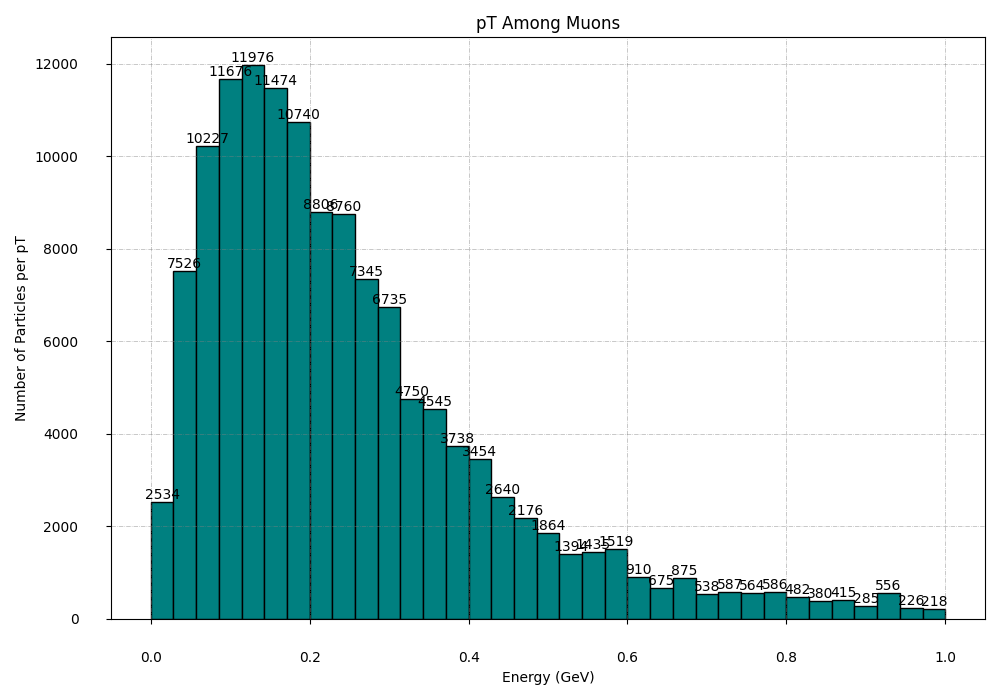
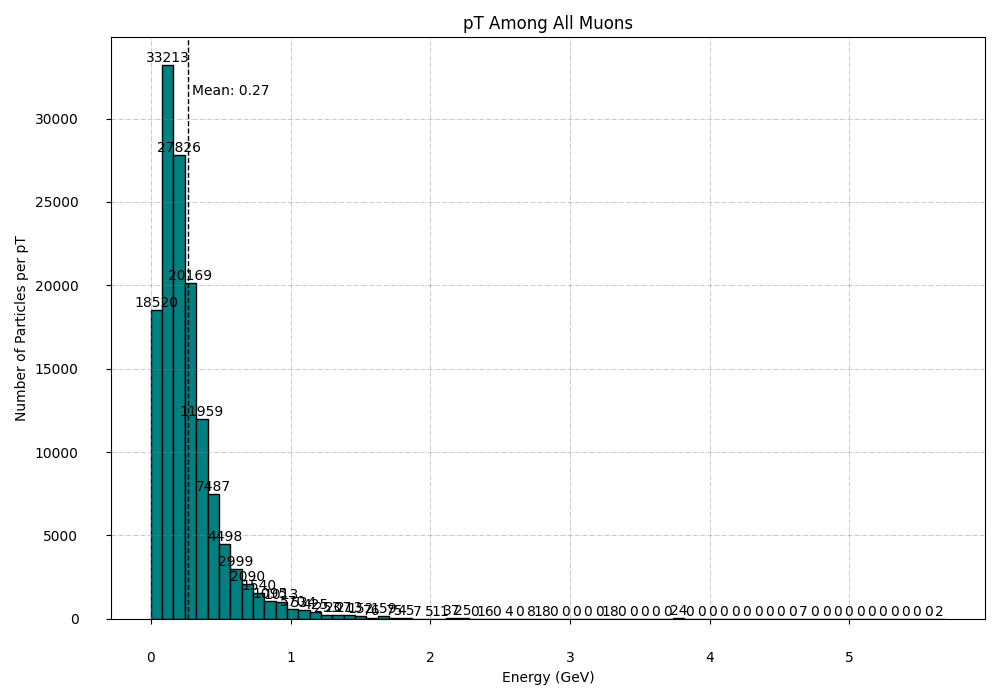
Added mean to the graphs and corrected filters to search for muons in acceptance. Also sorted muons by pT

diff --git a/GenLevelStudies/pythia/analysis_Eta.py b/GenLevelStudies/pythia/analysis_Eta.py
@@ -80,43 +80,21 @@ PMuVec4 = vector.zip({
     'pz': treeprime['MuonPrime4'].pz,
     'e': treeprime['MuonPrime4'].energy
 })
+####################
+####################
+####################
+####################
+
 # Histogram 1 pT
 muons_pt = et.LApt(eta_mu_1_vec, eta_mu_2_vec, eta_mu_3_vec, eta_mu_4_vec)
-fig, axs = plt.subplots(1, 1,
-                        figsize =(10, 7), 
-                        tight_layout = True)
-axs.grid(visible = True, color ='grey', 
-        linestyle ='-.', linewidth = 0.5, 
-        alpha = 0.6)
-counts, edges, bars = plt.hist(muons_pt ,edgecolor='black', color='teal', bins=35, range=[0,1])
-plt.bar_label(bars)
-axs.xaxis.set_tick_params(pad = 20) 
-axs.yaxis.set_tick_params(pad = 20) 
-plt.title('pT Among Muons')
-plt.xlabel('Energy (GeV)')
-plt.ylabel('Number of Particles per pT')
-plt.savefig('pythia/Histograms/4Muons_pT')
+et.bar_hist(muons_pt, '4Muons_pT', 'pT Among All Muons', 'Energy (GeV)', 'Number of Particles per pT', 'teal', 70)
 
-# Histogram 2 all 4 muons in acceptance
+# Histogram 2 all 4 muons 
 muons_eta = et.LAeta(eta_mu_1_vec, eta_mu_2_vec, eta_mu_3_vec, eta_mu_4_vec)
-
-fig, axs = plt.subplots(1, 1,
-                        figsize =(10, 7), 
-                        tight_layout = True)
-axs.grid(visible = True, color ='grey', 
-        linestyle ='-.', linewidth = 0.5, 
-        alpha = 0.6)
-counts, edges, bars = plt.hist(muons_eta ,edgecolor='black', color='teal', bins=35)
-plt.bar_label(bars)
-axs.xaxis.set_tick_params(pad = 20) 
-axs.yaxis.set_tick_params(pad = 20) 
-plt.title('eta Among Individual Muons')
-plt.xlabel('eta')
-plt.ylabel('Number of Particles per eta')
-plt.savefig('pythia/Histograms/4Muons_eta')
+et.bar_hist(muons_eta, '4MuonsEta', 'eta Among Individual Muons', 'eta', 'Number pf particle per eta','teal',  35 )
 
 # Histogram 3 eta spread among sibling muons
-#2d array each row is 4 sibling muons and their listed etas
+# 2d array each row is 4 sibling muons and their listed etas
 sibmuons = et.TwoDEta(eta_mu_1_vec, eta_mu_2_vec, eta_mu_3_vec, eta_mu_4_vec)
 counter = 0
 delta_eta_list = []
@@ -134,48 +112,20 @@ for i in range(len(sibmuons[:,1])):
             sibs_eta_acc = sibmuons[i,:]
         else:
             sibs_eta_acc = np.vstack((sibs_eta_acc,sibs))
-
-fig, axs = plt.subplots(1, 1,
-                        figsize =(10, 7), 
-                        tight_layout = True)
-axs.grid(visible = True, color ='grey', 
-        linestyle ='-.', linewidth = 0.5, 
-        alpha = 0.6)
-counts, edges, bars = plt.hist(delta_eta_list ,edgecolor='black', color='teal', bins=35)
-plt.bar_label(bars)
-axs.xaxis.set_tick_params(pad = 20) 
-axs.yaxis.set_tick_params(pad = 20) 
-plt.title('Greatest Delta Eta Among Sibling Muons')
-plt.xlabel('Delta Eta')
-plt.ylabel('Number of Particles per Delta eta')
-plt.savefig('pythia/Histograms/4Muons_delta_eta')
+et.bar_hist(delta_eta_list, '4MuonsEtaSpread', 'Eta Spread Among all eta siblings', 'Delta eta', 'Number of Particles per Delta eta','teal', 35)
 
 # Histogram 4 
 # Delta eta when all siblings are in Acceptance
 delta_eta_acc_list = []
 for i in range(len(sibs_eta_acc[:,1])):
-    mineta = 0
-    maxeta = 0
-    mineta = np.min(sibs_eta_acc[i,:])
-    maxeta = np.max(sibs_eta_acc[i,:])
-    delta_eta_acc = maxeta-mineta
-    delta_eta_acc_list.append(delta_eta_acc)
-
-fig, axs = plt.subplots(1, 1,
-                        figsize =(10, 7), 
-                        tight_layout = True)
-axs.grid(visible = True, color ='grey', 
-        linestyle ='-.', linewidth = 0.5, 
-        alpha = 0.6)
-counts, edges, bars = plt.hist(delta_eta_acc_list ,edgecolor='black', color='teal', bins=35)
-plt.bar_label(bars)
-axs.xaxis.set_tick_params(pad = 20) 
-axs.yaxis.set_tick_params(pad = 20) 
-plt.title('Greatest Delta Eta Among Sibling Muons All in Acceptance')
-plt.xlabel('Delta Eta')
-plt.ylabel('Number of Particles per Delta eta')
-plt.savefig('pythia/Histograms/4Muons_delta_eta_acc')
-
+    accmineta = 0
+    accmaxeta = 0
+    accsibs = sibs_eta_acc[i,:]
+    accmineta = np.min(accsibs)
+    accmaxeta = np.max(accsibs)
+    acc_delta = accmaxeta - accmineta
+    delta_eta_acc_list.append(acc_delta)
+et.bar_hist(delta_eta_acc_list, '4MuonsAccEtaSpread', 'Eta Spread Among all eta siblings in Acceptance', 'Delta eta', 'Number of Particles per Delta eta','teal', 35)
 
 print('The Highest pT among all muons is', muons_pt.max(),'GeV')
 print('The Lowest pT among all muons is', muons_pt.min(),'GeV')
@@ -192,42 +142,15 @@ print('The smallest pseudorapidity spread among siblings all in acceptance is', 
 ################
 ################ 
 
-# Prime Histogram 1 pT
+# Prime Histogram 1' muons pT
 prime_muons_pt = et.LApt(PMuVec1, PMuVec2, PMuVec3, PMuVec4)
-fig, axs = plt.subplots(1, 1,
-                        figsize =(10, 7), 
-                        tight_layout = True)
-axs.grid(visible = True, color ='grey', 
-        linestyle ='-.', linewidth = 0.5, 
-        alpha = 0.6)
-counts, edges, bars = plt.hist(prime_muons_pt ,edgecolor='black', color='rebeccapurple', bins=35, range=[0,1])
-plt.bar_label(bars)
-axs.xaxis.set_tick_params(pad = 20) 
-axs.yaxis.set_tick_params(pad = 20) 
-plt.title('pT Among Muons from Eta Prime')
-plt.xlabel('Energy (GeV)')
-plt.ylabel('Number of Particles per pT')
-plt.savefig('pythia/Histograms/prime_4Muons_pT')
+et.bar_hist(prime_muons_pt, 'prime_4Muons_pT', 'pT Among Muons from Eta Prime', 'Energy (GeV)', 'Number of Particles per pT', 'rebeccapurple', 45)
 
-# Prime Histogram 2 all 4 muons in acceptance
+# Prime Histogram 2' all 4 muons in acceptance
 prime_muons_eta = et.LAeta(PMuVec1, PMuVec2, PMuVec3, PMuVec4)
+et.bar_hist(prime_muons_eta, 'prime_4Muons_eta','Eta Among Individual Muons from Eta Prime', 'eta' ,'Number of Particles per eta', 'rebeccapurple', 35 )
 
-fig, axs = plt.subplots(1, 1,
-                        figsize =(10, 7), 
-                        tight_layout = True)
-axs.grid(visible = True, color ='grey', 
-        linestyle ='-.', linewidth = 0.5, 
-        alpha = 0.6)
-counts, edges, bars = plt.hist(prime_muons_eta ,edgecolor='black', color='rebeccapurple', bins=35)
-plt.bar_label(bars)
-axs.xaxis.set_tick_params(pad = 20) 
-axs.yaxis.set_tick_params(pad = 20) 
-plt.title('Eta Among Individual Muons from Eta Prime')
-plt.xlabel('eta')
-plt.ylabel('Number of Particles per eta')
-plt.savefig('pythia/Histograms/prime_4Muons_eta')
-
-# Prime Histogram 3 eta spread among sibling muons
+# Prime Histogram 3' eta spread among sibling muons
 # 2d array each row is 4 sibling muons and their listed etas
 prime_sibmuons = et.TwoDEta(PMuVec1, PMuVec2, PMuVec3, PMuVec4)
 counter = 0
@@ -246,23 +169,9 @@ for i in range(len(prime_sibmuons[:,1])):
             prime_sibs_eta_acc = sibmuons[i,:]
         else:
             prime_sibs_eta_acc = np.vstack((prime_sibs_eta_acc,sibs))
+et.bar_hist(prime_delta_eta_list, 'prime_4muons_delta_eta', 'Greatest Delta Eta Among Sibling Muons From Eta Prime', 'Delta Eta', 'Number of Particles per Delta eta', 'rebeccapurple', 35) 
 
-fig, axs = plt.subplots(1, 1,
-                        figsize =(10, 7), 
-                        tight_layout = True)
-axs.grid(visible = True, color ='grey', 
-        linestyle ='-.', linewidth = 0.5, 
-        alpha = 0.6)
-counts, edges, bars = plt.hist(prime_delta_eta_list ,edgecolor='black', color='rebeccapurple', bins=35)
-plt.bar_label(bars)
-axs.xaxis.set_tick_params(pad = 20) 
-axs.yaxis.set_tick_params(pad = 20) 
-plt.title('Greatest Delta Eta Among Sibling Muons From Eta Prime')
-plt.xlabel('Delta Eta')
-plt.ylabel('Number of Particles per Delta eta')
-plt.savefig('pythia/Histograms/prime_4Muons_delta_eta')
-
-# Prime Histogram 4 
+# Prime Histogram 4' 
 # Delta eta when all siblings are in Acceptance
 prime_delta_eta_acc_list = []
 for i in range(len(prime_sibs_eta_acc[:,1])):
@@ -273,59 +182,19 @@ for i in range(len(prime_sibs_eta_acc[:,1])):
     prime_delta_eta_acc = pmaxeta-pmineta
     prime_delta_eta_acc_list.append(prime_delta_eta_acc)
 
-fig, axs = plt.subplots(1, 1,
-                        figsize =(10, 7), 
-                        tight_layout = True)
-axs.grid(visible = True, color ='grey', 
-        linestyle ='-.', linewidth = 0.5, 
-        alpha = 0.6)
-counts, edges, bars = plt.hist(prime_delta_eta_acc_list ,edgecolor='black', color='rebeccapurple', bins=35)
-plt.bar_label(bars)
-axs.xaxis.set_tick_params(pad = 20) 
-axs.yaxis.set_tick_params(pad = 20) 
-plt.title('Greatest Delta Eta Among Sibling Muons All in Acceptance from Eta Prime')
-plt.xlabel('Delta Eta')
-plt.ylabel('Number of Particles per Delta eta')
-plt.savefig('pythia/Histograms/prime_4Muons_delta_eta_acc')
-
-
+et.bar_hist(prime_delta_eta_acc_list, 'prime_4muons_acc_delta_eta', 'Greatest Delta Eta Among Sibling Muons (all in acceptance) From Eta Prime', 'Delta Eta', 'Number of Particles per Delta eta', 'rebeccapurple', 35)
 
 ############
 ############
 ############
-# New Histogram
+#New Histogram (All Muons in Acceptance)
 all_muons_acc_pt = et.eta_acc_LApt(eta_mu_1_vec, eta_mu_2_vec, eta_mu_3_vec, eta_mu_4_vec)
-fig, axs = plt.subplots(1, 1,
-                        figsize =(10, 7), 
-                        tight_layout = True)
-axs.grid(visible = True, color ='grey', 
-        linestyle ='-.', linewidth = 0.5, 
-        alpha = 0.6)
-counts, edges, bars = plt.hist(all_muons_acc_pt ,edgecolor='black', color='teal', bins=35)
-plt.bar_label(bars)
-axs.xaxis.set_tick_params(pad = 20) 
-axs.yaxis.set_tick_params(pad = 20) 
-plt.title('4 muons in Acc pT ')
-plt.xlabel('pT in GeV')
-plt.ylabel('Number of Particles per pT')
-plt.savefig('pythia/Histograms/4muons_acc_pT')
+et.bar_hist(all_muons_acc_pt, '4muons_acc_pT', 'Muons (all in acceptance) pT', 'pT in GeV','Number of Particles per pT', 'teal', 65 )
 
-# New Histogram
+
+# # New Histogram
 all_prime_muons_acc_pt = et.eta_acc_LApt(PMuVec1, PMuVec2, PMuVec3, PMuVec4)
-fig, axs = plt.subplots(1, 1,
-                        figsize =(10, 7), 
-                        tight_layout = True)
-axs.grid(visible = True, color ='grey', 
-        linestyle ='-.', linewidth = 0.5, 
-        alpha = 0.6)
-counts, edges, bars = plt.hist(all_prime_muons_acc_pt ,edgecolor='black', color='rebeccapurple', bins=35)
-plt.bar_label(bars)
-axs.xaxis.set_tick_params(pad = 20) 
-axs.yaxis.set_tick_params(pad = 20) 
-plt.title('4 Eta_Prime Muons in Acceptance pT ')
-plt.xlabel('pT in GeV')
-plt.ylabel('Number of Particles per pT')
-plt.savefig('pythia/Histograms/prime_4muons_acc_pT')
+et.bar_hist(all_prime_muons_acc_pt, 'prime_4muons_acc_pT', 'Eta_Prime Muons (all in acceptance) pT','pT in GeV', 'Number of Particles per pT', 'rebeccapurple', 65)
 
 #NewHistogram
 fig, axs = plt.subplots(1, 1,
@@ -355,10 +224,42 @@ print('\nThe avaerage pseudorapidity spread among siblings all in acceptance fro
 print('The greatest pseudorapidity spread among siblings all in acceptance from eta prime is', np.array(prime_delta_eta_acc_list).max())
 print('The smallest pseudorapidity spread among siblings all in acceptance from eta prime is', np.array(prime_delta_eta_acc_list).min())
 
-print('\nThe highest pT among all muons from eta is', np.array(all_muons_acc_pt).max(),'GeV')
+print('\nAll Muons in acceptance decayed from both eta and eta prime')
+print('The highest pT among all muons from eta is', np.array(all_muons_acc_pt).max(),'GeV')
 print('The highest pT among all muons from eta prime is', np.array(all_prime_muons_acc_pt).max(),'GeV')
 print('The lowest pT among all muons from eta is', np.array(all_muons_acc_pt).min(),'GeV')
 print('The lowest pT among all muons from eta prime is', np.array(all_prime_muons_acc_pt).min(),'GeV')
 print('The average pT among all muons from eta is', np.array(all_muons_acc_pt).mean(),'GeV')
 print('The average pT among all muons from eta prime is', np.array(all_prime_muons_acc_pt).mean(),'GeV')
-pdb.set_trace()
+
+muon_sorted_pt = et.eta_acc_sort_pt(eta_mu_1_vec, eta_mu_2_vec, eta_mu_3_vec, eta_mu_4_vec)
+muon_prime_sorted_pt = et.eta_acc_sort_pt(PMuVec1, PMuVec2, PMuVec3, PMuVec4)
+
+print('\n information about muons decayed from eta sorted pt')
+print('The highest pT among the largets pt eta muons is', muon_sorted_pt[:,3].max(),'GeV')
+print('The highest pT among the 2nd eta muons is', muon_sorted_pt[:,2].max(),'GeV')
+print('The highest pT among the 3rd eta muons is', muon_sorted_pt[:,1].max(),'GeV')
+print('The highest pT among eta 4th muons is', muon_sorted_pt[:,0].max(),'GeV')
+print('The lowest pT among the largets pt eta muons is', muon_sorted_pt[:,3].min(),'GeV')
+print('The lowest pT among the 2nd eta muons is', muon_sorted_pt[:,2].min(),'GeV')
+print('The lowest pT among the 3rd eta muons is', muon_sorted_pt[:,1].min(),'GeV')
+print('The lowest pT among the 4th eta muons is', muon_sorted_pt[:,0].min(),'GeV')
+print('The average pT among the largets pt eta muons is', muon_sorted_pt[:,3].mean() ,'GeV')
+print('The average pT among the 2nd eta muons is', muon_sorted_pt[:,2].mean(),'GeV')
+print('The average pT among the 3rd eta muons is', muon_sorted_pt[:,1].mean(),'GeV')
+print('The average pT among the 4th eta muons is', muon_sorted_pt[:,0].mean(),'GeV')
+
+print('\nInformation about muons decayed from eta_prime sorted pt')
+print('The highest pT among the largets pt eta_prime muons is', muon_prime_sorted_pt[:,3].max(),'GeV')
+print('The highest pT among the 2nd eta_prime muons is', muon_prime_sorted_pt[:,2].max(),'GeV')
+print('The highest pT among the 3rd eta_prime muons is', muon_prime_sorted_pt[:,1].max(),'GeV')
+print('The highest pT among eta_prime 4th muons is', muon_prime_sorted_pt[:,0].max(),'GeV')
+print('The lowest pT among the largets pt eta_prime muons is', muon_prime_sorted_pt[:,3].min(),'GeV')
+print('The lowest pT among the 2nd eta_prime muons is', muon_prime_sorted_pt[:,2].min(),'GeV')
+print('The lowest pT among the 3rd eta_prime muons is', muon_prime_sorted_pt[:,1].min(),'GeV')
+print('The lowest pT among the 4th eta_prime muons is', muon_prime_sorted_pt[:,0].min(),'GeV')
+print('The average pT among the largets pt eta_prime muons is', muon_prime_sorted_pt[:,3].mean() ,'GeV')
+print('The average pT among the 2nd eta_prime muons is', muon_prime_sorted_pt[:,2].mean(),'GeV')
+print('The average pT among the 3rd eta_prime muons is', muon_prime_sorted_pt[:,1].mean(),'GeV')
+print('The average pT among the 4th eta_prime muons is', muon_prime_sorted_pt[:,0].mean(),'GeV')
+#pdb.set_trace()

diff --git a/GenLevelStudies/pythia/EtaTools.py b/GenLevelStudies/pythia/EtaTools.py
@@ -2,6 +2,7 @@ import numpy as np
 import matplotlib.pyplot as plt
 import uproot
 import vector
+import time
 
 
 def LApt(vec1, vec2, vec3, vec4):
@@ -39,31 +40,81 @@ def TwoDEta(vec1, vec2, vec3, vec4):
     TwoDimArray = np.transpose([np.array(vec1.eta),np.array(vec2.eta),np.array(vec3.eta),np.array(vec4.eta)])
     return(TwoDimArray)
 
+def TwoDEtaAcc(vec1, vec2, vec3, vec4):
+    counter = 0
+    ndarr1 = np.transpose([np.array(vec1.eta),np.array(vec2.eta),np.array(vec3.eta),np.array(vec4.eta)])
+    for i in range(len(ndarr1[:,1])):
+        if ndarr1[i,0] <=5 and ndarr1[i,0] >=2 and ndarr1[i,1] <=5 and ndarr1[i,1] >=2 and ndarr1[i,2] <=5 and ndarr1[i,2] >=2 and ndarr1[i,3] <=5 and ndarr1[i,3] >=2:
+            counter +=1
+            if counter == 1:
+                nd_eta_acc_arr1 = ndarr1[i,:]
+            else:
+                nd_eta_acc_arr1 = np.vstack((nd_eta_acc_arr1, ndarr1[i,:]))
+    return(nd_eta_acc_arr1)
+
 def eta_acc_LApt(vec1, vec2, vec3, vec4):
-    'takes four 4vectors cuts off those which dont meet eta(pseudorapidity) requierments'
+    'takes four 4vectors cuts off those which dont meet eta(pseudorapidity) requierments and makes one list'
     import vector
     import time
     start_time=time.time()
-    veclist = [vec1, vec2, vec3, vec4]
     vec1_acc_pt = []
     vec2_acc_pt = [] 
     vec3_acc_pt = [] 
     vec4_acc_pt = []
-    #veclist_eta_acc = [vec1_acc, vec2_acc, vec3_acc, vec4_acc]
-
+    
     for i in range(len(vec1)):
-        if vec1[i].eta >=2 and vec1[i].eta <= 5:
+        if vec1[i].eta >=2 and vec1[i].eta <= 5 and vec2[i].eta >=2 and vec2[i].eta <= 5 and vec3[i].eta >=2 and vec3[i].eta <=5 and vec4[i].eta >=2 and vec4[i].eta <= 5:
             vec1_acc_pt.append(vec1[i].pt)
-    for i in range(len(vec2)):
-        if vec1[i].eta >=2 and vec1[i].eta <= 5:
             vec2_acc_pt.append(vec2[i].pt)
-    for i in range(len(vec3)):
-        if vec3[i].eta >=2 and vec3[i].eta <= 5:
             vec3_acc_pt.append(vec3[i].pt)
-    for i in range(len(vec4)):
-        if vec4[i].eta >=2 and vec4[i].eta <= 5:
             vec4_acc_pt.append(vec4[i].pt)
     vec_list_eta_acc_pt = vec1_acc_pt + vec2_acc_pt + vec3_acc_pt + vec4_acc_pt
-    print("My program took", time.time() - start_time, "to run")
+    print("My eta acc function took", time.time() - start_time, "to run")
     return(vec_list_eta_acc_pt)
-    
+
+def sort_pt(vec1, vec2, vec3, vec4):
+    'Take 4 four vectors and sorts them in a nx4. Where n is the length of the vectors (Assuming)'
+    'they are all the same length. the the 1st entry is the smallest pT in ascending order'
+    TwoDimArray = np.transpose([np.array(vec1.pt),np.array(vec2.pt),np.array(vec3.pt),np.array(vec4.pt)])
+    for i in range(len(TwoDimArray[:,1])):
+        if i == 0:
+            sort_ndarray = np.sort(TwoDimArray[i,:])
+        else:
+            sort_ndarray = np.vstack((sort_ndarray, np.sort(TwoDimArray[i,:])))
+    return(sort_ndarray)
+
+def eta_acc_sort_pt(vec1, vec2, vec3, vec4):
+    'looks for all 4 muons in acceptance and then sorts them by ascending pT returns nx4 array'
+    start_time=time.time()
+    counter = 0
+    for i in range(len(vec1)):
+        if vec1[i].eta >=2 and vec1[i].eta <= 5 and vec2[i].eta >=2 and vec2[i].eta <= 5 and vec3[i].eta >=2 and vec3[i].eta <=5 and vec4[i].eta >=2 and vec4[i].eta <= 5:
+            if counter == 0:
+                counter += 1
+                arr1 =np.array([vec1[i].pt, vec2[i].pt, vec3[i].pt, vec3[i].pt])
+                sort_arr1 = np.sort(arr1)
+            else:
+                arr1 =np.array([vec1[i].pt, vec2[i].pt, vec3[i].pt, vec3[i].pt])
+                sort_arr1 = np.vstack((sort_arr1, np.sort(arr1)))
+    print("My eta acc pT sorting function took", time.time() - start_time, "to run")
+    return(sort_arr1)    
+
+def bar_hist(list1, savefig, title, xlabel, ylabel, color, bins):
+    fig, axs = plt.subplots(1, 1,
+                        figsize =(10, 7), 
+                        tight_layout = True)
+    axs.grid(visible = True, color ='grey', 
+        linestyle ='-.', linewidth = 0.5, 
+        alpha = 0.6)
+    counts, edges, bars = plt.hist(list1 ,edgecolor='black', color=color, bins=bins)
+    plt.bar_label(bars)
+    axs.xaxis.set_tick_params(pad = 20) 
+    axs.yaxis.set_tick_params(pad = 20)
+    array1=np.array(list1)
+    plt.axvline(array1.mean(), color='k', linestyle='dashed', linewidth=1)
+    min_ylim, max_ylim = plt.ylim()
+    plt.text(array1.mean()*1.1, max_ylim*0.9, 'Mean: {:.2f}'.format(array1.mean()))
+    plt.title(title)
+    plt.xlabel(xlabel)
+    plt.ylabel(ylabel)
+    plt.savefig('pythia/Histograms/'+savefig)
